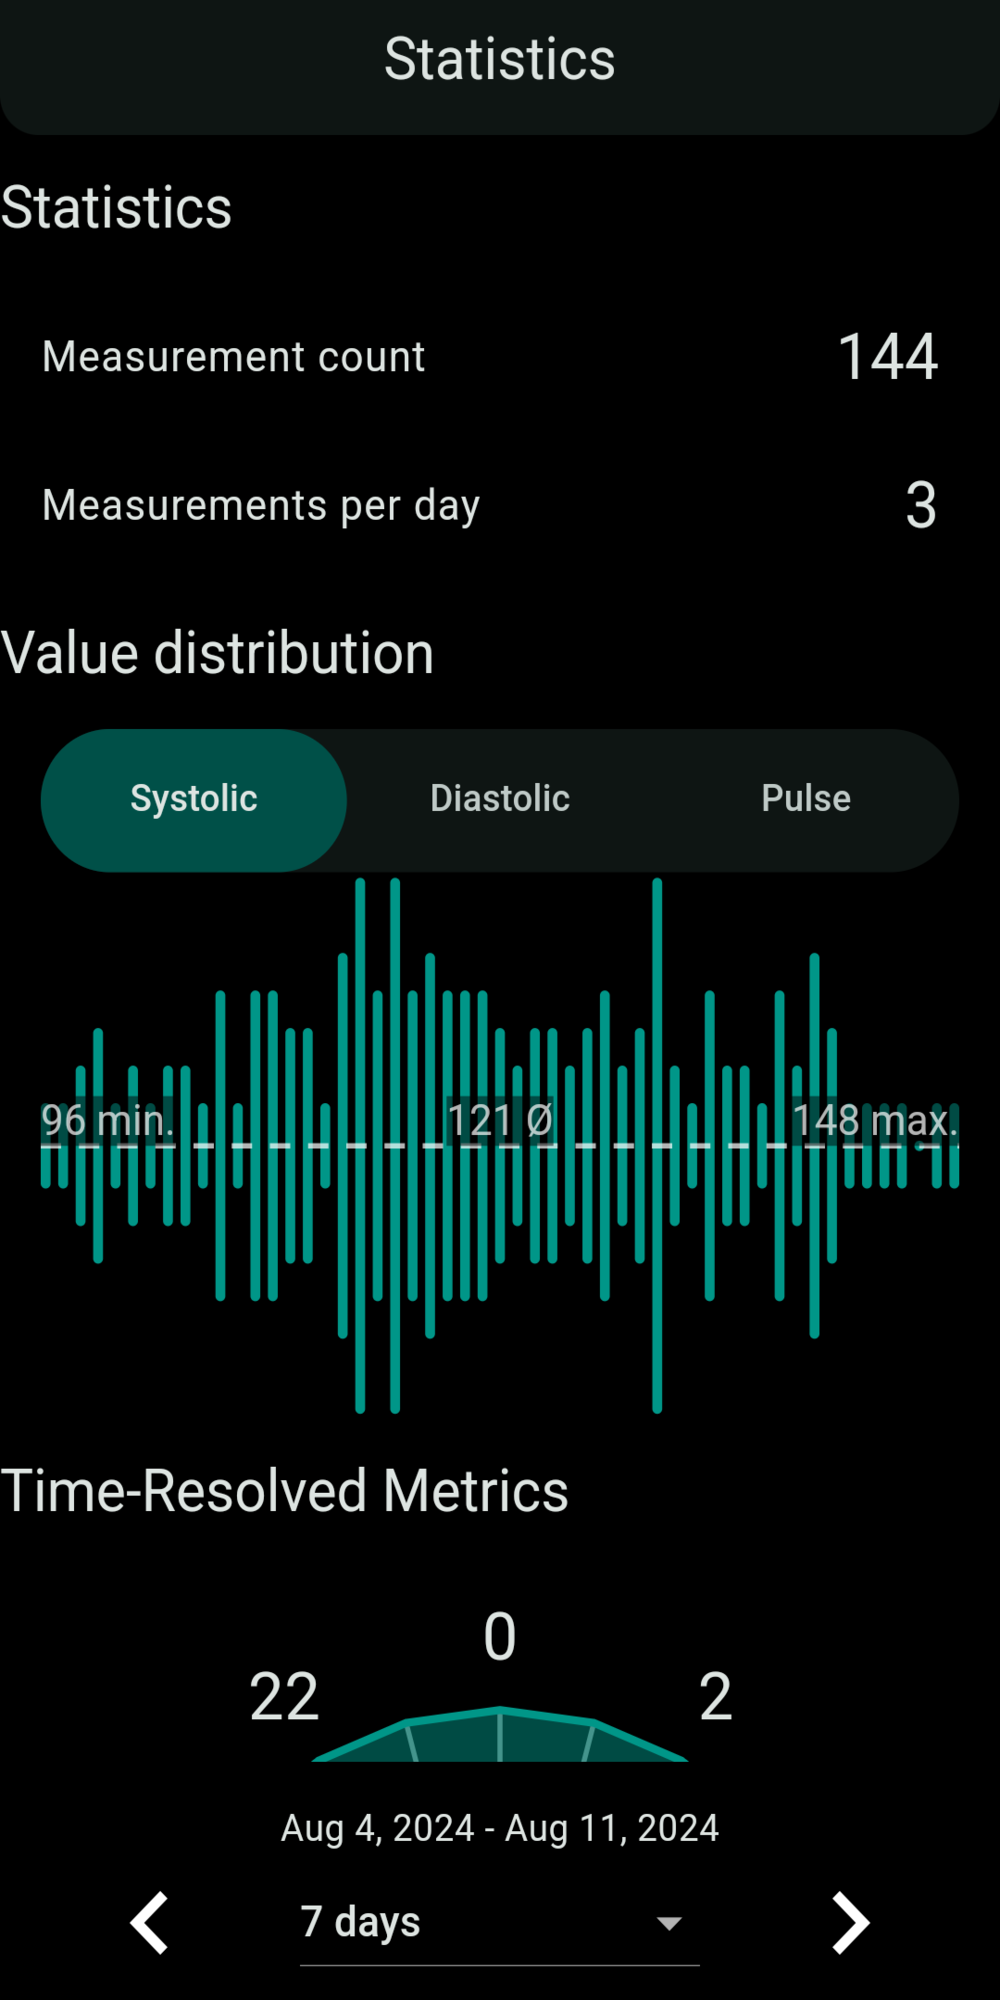
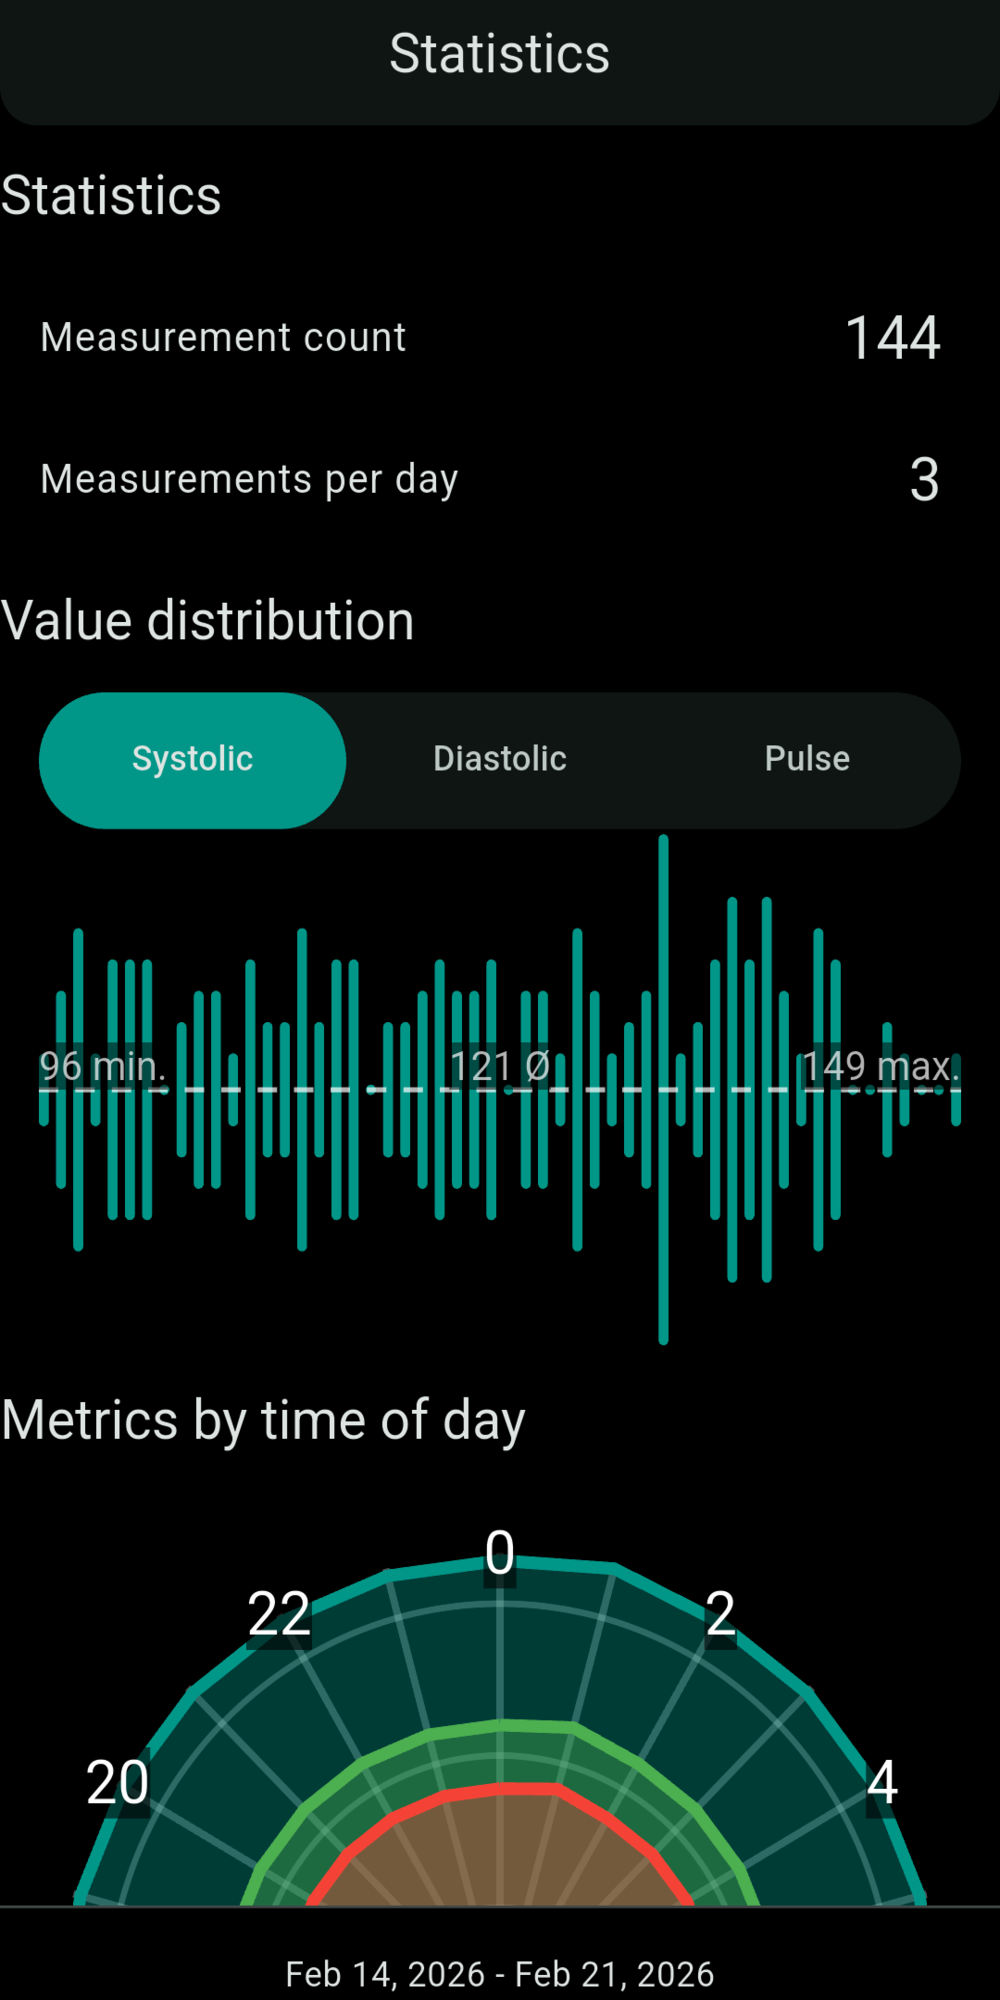
Update screenshots and documentation (#632)
* Update screenshot workflow

* Update screenshots

* Link device support matrix more prominently

* fix typo

---------

diff --git a/app/integration_test/screenshot_settings.dart b/app/integration_test/screenshot_settings.dart
@@ -26,17 +26,14 @@ void main() {
       tester.getCenter(find.text(localizations.animationSpeed)),
       tester.getCenter(find.text(localizations.animationSpeed)) - tester.getCenter(find.text(localizations.timeFormat))
     );
-    await tester.pumpAndSettle();
 
-    await binding.convertFlutterSurfaceToImage();
-    await tester.pump();
-    await binding.takeScreenshot('03-example_settings');
+    await tester.takeScreenshot('03-example_settings');
 
     await tester.scrollUntilVisible(find.text(localizations.exportImport, skipOffstage: false), 50.0);
     await tester.pumpAndSettle();
     await tester.tap(find.text(localizations.exportImport));
     await tester.pumpAndSettle();
 
-    await binding.takeScreenshot('05-export_example');
+    await tester.takeScreenshot('05-export_example');
   });
 }

diff --git a/app/integration_test/util.dart b/app/integration_test/util.dart
@@ -1,4 +1,8 @@
+import 'dart:io';
+
+import 'package:flutter/material.dart';
 import 'package:flutter_test/flutter_test.dart';
+import 'package:integration_test/integration_test.dart';
 
 extension WaitUntil on WidgetTester {
   /// Retries with 100ms delay for up to [maxLength] for a [test] to succeed.
@@ -13,5 +17,14 @@ extension WaitUntil on WidgetTester {
       await pump(Duration(milliseconds: 100));
     }
     await pump();
+  }
+
+extension Screenshot on WidgetTester {
+  Future<void> takeScreenshot(String name) async {
+    await pumpAndSettle();
+    await expectLater(
+      find.byType(MaterialApp),
+      matchesGoldenFile('screenshots/$name.png'),
+    );
   }
 }

diff --git a/app/integration_test/screenshot_home.dart b/app/integration_test/screenshot_home.dart
@@ -9,7 +9,6 @@ import 'package:integration_test/integration_test.dart';
 import 'util.dart';
 
 void main() {
-  final binding = IntegrationTestWidgetsFlutterBinding.ensureInitialized();
   testWidgets('Screenshot home page', (WidgetTester tester) async {
     final localizations = await AppLocalizations.delegate.load(const Locale('en'));
 
@@ -32,9 +31,7 @@ void main() {
     await tester.tap(find.text('116'));
     await tester.pumpAndSettle();
 
-    await binding.convertFlutterSurfaceToImage();
-    await tester.pump();
-    await binding.takeScreenshot('02-example_home');
+    await tester.takeScreenshot('02-example_home');
   });
 }
 

diff --git a/app/integration_test/screenshot_input.dart b/app/integration_test/screenshot_input.dart
@@ -52,16 +52,8 @@ void main() {
       color: Colors.yellow,
       save: false,
     );
-    await tester.tap(find.text(localizations.noMedication));
-    await tester.pumpAndSettle();
-    await tester.tap(find.text('Metolazone'));
-    await tester.pumpAndSettle();
-    await tester.enterText(find.byType(TextFormField).at(4), '1.5');
 
-    await tester.pumpAndSettle();
-    await binding.convertFlutterSurfaceToImage();
-    await tester.pump();
-    await binding.takeScreenshot('01-example_add');
+    await tester.takeScreenshot('01-example_add');
   });
 }
 

diff --git a/app/integration_test/screenshot_stats.dart b/app/integration_test/screenshot_stats.dart
@@ -13,6 +13,7 @@ import 'package:intl/date_symbol_data_local.dart';
 import 'package:provider/provider.dart';
 
 import '../test/model/analyzer_test.dart';
+import 'util.dart';
 
 void main() {
   final binding = IntegrationTestWidgetsFlutterBinding.ensureInitialized();
@@ -52,10 +53,7 @@ void main() {
       ),
     ));
 
-    await tester.pumpAndSettle();
-    await binding.convertFlutterSurfaceToImage();
-    await tester.pump();
-    await binding.takeScreenshot('04-example_stats');
+    await tester.takeScreenshot('04-example_stats');
   });
 }
 

diff --git a/README.md b/README.md
@@ -33,13 +33,14 @@ As there is no demand Windows, Linux and MacOS builds have been stopped. In case
 ## Features
 <i>blood pressure monitor</i> is a reliable blood pressure measurement tracker and analyzer. It has the ambition to allow saving measurements faster than anywhere else and make sharing data with you doctor effortless. It works out of the box but can also be configured for individual use cases.
 
-- 📏 <i>Reliable</i> measurement storing
-- 🚀 Fast input through <i>user-friendly</i> dialogues on launch and automatic form navigation
-- 📊 <i>Beautiful</i> analytics provide insights on trends, distribution, differences over the day and much more
-- 📂 Versatile <i>export and import</i> (CSV, PDF, SQLite) with granular control
-- ⚙ High configurability
+- <i>Reliable</i> measurement storing
+- Fast input through <i>user-friendly</i> dialogues on launch and automatic form navigation
+- <i>Beautiful</i> analytics provide insights on trends, distribution, differences over the day and much more
+- Versatile <i>export and import</i> (CSV, PDF, SQLite) with granular control
+- High configurability
 - Ad free without disturbances
 - Well-documented, <i>open-source</i> code
+- Receive measurements via bluetooth – [tested devices](docs/bluetooth.md)
 
 ### Screenshots
 

diff --git a/docs/bluetooth.md b/docs/bluetooth.md
@@ -15,11 +15,15 @@ Most devices provide 2 ways to retrieve measurements over bluetooth, but there a
     1. and automatically remove all locally stored measurements after a succesful download
     2. and leave measurements untouched, i.e. the user needs to remove the stored measurements themselves
 
-> ⚠ At the moment situation 2.i is not well supported. Do not use this unless you are ok with loosing previously stored measurements
+>[!CAUTION]
+> At the moment situation 2.i is not well supported. Do not use this unless you are ok with loosing previously stored measurements.
 
 ## Known working devices
 
-> If your device is not listed please edit this page and add it! 🙇
+>[!WARNING]
+> No warranty here – they can be submitted by anonymous users. 
+> 
+> Including you! If your device is not listed please edit this page and add it! 🙇
 
 |Device|Bluetooth name|Read after measurement|Download mode|Automatically disconnects after reading|
 |---|---| :---: | :---: | :---: |
